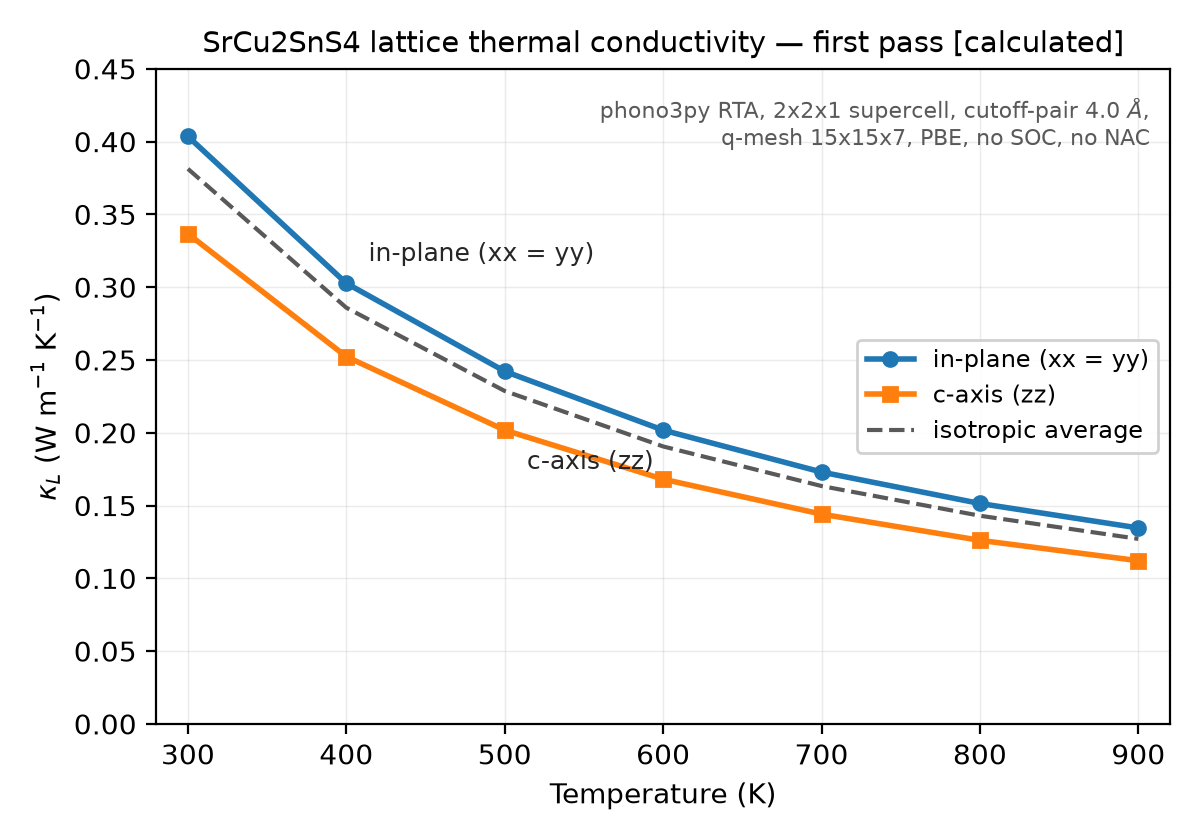
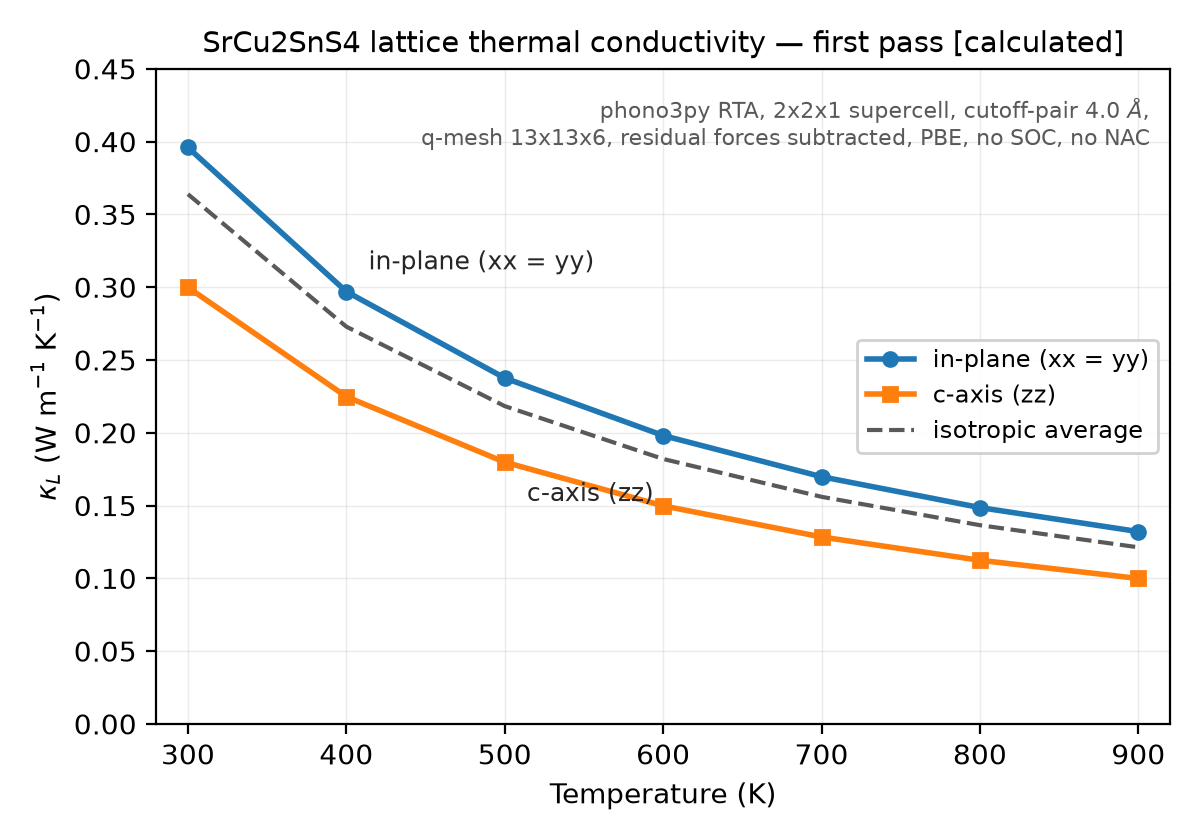
Refresh fourth-step package to residual-corrected kappa_L (0.36 W/m/K at 300 K)
Corrected stage2 verified against kappa-m13136.hdf5: 300 K xx=yy 0.3960,
zz 0.2999, avg 0.3639 W/m/K; 900 K avg 0.1213; freq_min -2e-6 THz. The
--cfz correction moved the fixed-mesh average by < 0.1% (robustness
confirmed); the ladder now meets the 3% criterion at 13x13x6 (2.9%,
marginal - ~5% still quoted). kappa-m15157.hdf5 kept as the
pre-correction record. Figure regenerated; EMAIL_DRAFT, write-up
validation, README, learning/08, Roy_task_status, SrCu2SnS4/CLAUDE.md,
HANDOFF and WORKLOG all updated. Only user review + send remain.

Claude-Session: https://claude.ai/code/session_01V2uDC1BzztX87MBD3yss4T

diff --git a/fourth step result (phono3py lattice thermal conductivity)/reproducibility/plot_kappa.py b/fourth step result (phono3py lattice thermal conductivity)/reproducibility/plot_kappa.py
@@ -44,7 +44,7 @@ ax.set_title("SrCu2SnS4 lattice thermal conductivity — first pass [calculated]
              fontsize=10.5)
 ax.text(0.98, 0.96,
         "phono3py RTA, 2x2x1 supercell, cutoff-pair 4.0 $\\AA$,\n"
-        "q-mesh 15x15x7, PBE, no SOC, no NAC",
+        "q-mesh 13x13x6, residual forces subtracted, PBE, no SOC, no NAC",
         transform=ax.transAxes, ha="right", va="top", fontsize=8, color="0.35")
 ax.grid(alpha=0.25, lw=0.5)
 ax.legend(loc="center right", fontsize=8.5, framealpha=0.9)

diff --git a/learning/08_phonons_and_kappa_L.md b/learning/08_phonons_and_kappa_L.md
@@ -90,9 +90,11 @@ kappa_L. Work directory: `thermo_candidates/SrCu2SnS4/phono3py/`.
   of every failure (taken before reruns could overwrite them).
 - `checks/` — the on-cluster decisions: the cheaper 2x2x2 k-mesh FAILED
   the 5e-5 Ry/bohr force criterion (3x3x3 kept), the cheaper 60/480 Ry
-  cutoffs PASSED. The undisplaced-supercell sanity run (forces should be
-  ~zero) hit a QE symmetry bug and is being rerun with `nosym` — see
-  section 7.
+  cutoffs PASSED. The undisplaced-supercell sanity run measured a max
+  residual force of 5.5e-4 Ry/bohr — above the 1e-4 guideline — so the
+  measured residual field was subtracted from every displaced-cell force
+  before fitting (phono3py `--cfz`); the correction moved kappa_L by
+  < 0.1% at fixed mesh, i.e. the result was robust against it.
 - Outputs: `../results/kappa_L_first_pass.csv` (tensor vs T
   [calculated]) and `../results/kappa_L_summary.md` (settings + checks).
 
@@ -100,33 +102,34 @@ kappa_L. Work directory: `thermo_candidates/SrCu2SnS4/phono3py/`.
 
 - kappa_L is a tensor; trigonal symmetry forces kxx = kyy != kzz, and the
   computed tensor obeys it exactly — a free correctness check. Numbers at
-  300 K [calculated]: in-plane 0.40, c-axis 0.34, average
-  **0.38 W m^-1 K^-1**. The anisotropy is modest (~20%); heat flows
-  slightly worse along c.
+  300 K [calculated, residual-corrected]: in-plane 0.40, c-axis 0.30,
+  average **0.36 W m^-1 K^-1**. The anisotropy is modest (~25%); heat
+  flows worse along c.
 - Typical good thermoelectrics sit near or below ~1 W m^-1 K^-1 at 300 K;
-  ordinary semiconductors are tens. 0.38 is very low — encouraging.
+  ordinary semiconductors are tens. 0.36 is very low — encouraging.
 - kappa_L falls roughly as 1/T in this regime (more phonons to scatter
-  off): our 900 K average is 0.127, and 0.381 x (300/900) = 0.127 —
+  off): our 900 K average is 0.1213, and 0.3639 x (300/900) = 0.1213 —
   the trend holds to the last digit. High-T zT benefits twice.
 - Sanity checks from the summary: minimum phonon frequency -2e-6 THz
   (zero to numerical precision — no imaginary modes, dynamically stable
-  structure). The q-mesh ladder did NOT reach the < 3% target: the 300 K
-  average still moved ~5% between the finest meshes
-  (0.376 -> 0.364 -> 0.381 over 11x11x5 -> 13x13x6 -> 15x15x7), so the
-  reported numbers use the largest mesh and carry a ~5% uncertainty.
-  That is a flag, not a failure — it is stated wherever the number is.
+  structure). The q-mesh ladder met the < 3% target at 13x13x6, but only
+  just (0.375 -> 0.364, a 2.9% change; values across the whole ladder
+  span ~0.33-0.38), so ~5% is quoted as the honest q-mesh uncertainty
+  wherever the number appears.
+- A worked lesson in robustness: the residual-force correction (--cfz)
+  changed the average at fixed mesh by < 0.1% (0.364 -> 0.3639), while
+  switching mesh (15x15x7 -> 13x13x6, both defensible) changed it by
+  ~4%. The q-mesh, not the residual forces, is the real uncertainty here
+  — measuring both is what lets you say so.
 
 ## 7. What this still is NOT
 
 - Still RTA + PBE + no SOC, fc3 truncated at 4.0 A pairs, 2x2x1 supercell,
   no non-analytic (Born-charge) correction yet — each is documented and
   each can be tightened later.
-- The q-mesh is converged only to ~5% (see section 6), and the
-  undisplaced-supercell residual-force check is still open (same QE
-  "lone vector" bug as 24 of the displaced runs; rerun with nosym): the
-  absence of imaginary modes already argues the relaxation was good
-  enough, but the explicit number should be recorded before the result
-  is called closed.
+- The q-mesh is converged only at the ~3-5% level (see section 6). The
+  residual-force question is closed: measured at 5.5e-4 Ry/bohr and
+  subtracted via `--cfz`, with a < 0.1% effect on kappa_L at fixed mesh.
 - Combining kappa_L with our PF/tau still does not give an absolute zT:
   the electronic side keeps its unknown relaxation time tau. What kappa_L
   buys is (a) one honest, material-specific piece of the denominator, and

diff --git a/fourth step result (phono3py lattice thermal conductivity)/EMAIL_DRAFT.md b/fourth step result (phono3py lattice thermal conductivity)/EMAIL_DRAFT.md
@@ -13,9 +13,9 @@ every problem we hit along the way and how each one was solved, and turned
 it into a step-by-step write-up — it is attached, and I hope it saves you
 and the group the same detours.
 
-The result [calculated]: kappa_L at 300 K comes out at about 0.38 W/(m K)
-(0.40 in-plane, 0.34 along the c axis), falling close to 1/T with
-temperature to about 0.13 W/(m K) at 900 K; the table, a figure, and the
+The result [calculated]: kappa_L at 300 K comes out at about 0.36 W/(m K)
+(0.40 in-plane, 0.30 along the c axis), falling close to 1/T with
+temperature to about 0.12 W/(m K) at 900 K; the table, a figure, and the
 settings summary are attached. Taken at face value this is a very low
 lattice thermal conductivity — good thermoelectric materials are usually
 quoted at or below roughly 1 W/(m K) at room temperature — so it is an
@@ -31,13 +31,19 @@ spin-orbit coupling, and no Born-charge (non-analytic) correction yet.
 The force calculations used settings validated by explicit
 force-convergence tests on the cluster itself (the coarser k-mesh failed
 our 5e-5 Ry/bohr criterion and was rejected; the lower cutoffs passed).
-One thing did not fully settle: the q-mesh for the thermal-conductivity
-integration still moves the 300 K value by about 5% between the finest
-meshes instead of dropping below our 3% target, so I report the largest
-mesh (15x15x7) and treat +/-5% as the honest uncertainty on these
-numbers. And as before, this is not a full zT yet — kappa_L fills in one
-missing piece of the denominator, but the electronic side still carries
-its unknown relaxation time.
+I also ran the standard sanity check on the undisplaced supercell: its
+residual forces came out at 5.5e-4 Ry/bohr, above the 1e-4 guideline we
+had set, so rather than just flagging it I subtracted the measured
+residual field from every displaced-cell force before fitting (phono3py's
+--cfz option); reassuringly, that changed kappa_L by less than 0.1% at
+fixed mesh, so the result is robust against it. The q-mesh for the
+thermal-conductivity integration met our 3% convergence criterion at
+13x13x6, though only just (2.9% change from the previous mesh, and the
+values across the whole mesh ladder span roughly 0.33-0.38), so I would
+treat about +/-5% as the honest uncertainty on these numbers. And as
+before, this is not a full zT yet — kappa_L fills in one missing piece of
+the denominator, but the electronic side still carries its unknown
+relaxation time.
 
 About getting it to run: installing phono3py was the easy part; almost
 everything that went wrong was in the surrounding machinery, and each

diff --git a/fourth step result (phono3py lattice thermal conductivity)/README.md b/fourth step result (phono3py lattice thermal conductivity)/README.md
@@ -12,10 +12,12 @@ the layout of the earlier step-result packages.
   records are archived in `thermo_candidates/SrCu2SnS4/phono3py/`.
 - This package: kappa_L table + figure + settings summary + the
   "how we got it working" write-up, staged in `READY_TO_ATTACH/`.
-- **NOT yet sent.** One internal check is still to be closed before
-  sending (the undisplaced-supercell residual-force check, which tripped
-  the same QE "lone vector" bug — rerun queued with the nosym fix), and
-  the user reviews `EMAIL_DRAFT.md`. Freeze `READY_TO_ATTACH/` on send.
+- The pristine residual-force check is CLOSED: max residual 5.5e-4
+  Ry/bohr (above the 1e-4 guideline), measured and then SUBTRACTED from
+  all displaced-cell forces via phono3py `--cfz`; the correction moved
+  kappa_L by < 0.1% at fixed mesh.
+- **NOT yet sent.** Only remaining step: the user reviews
+  `EMAIL_DRAFT.md` and sends. Freeze `READY_TO_ATTACH/` on send.
 
 ## Contents
 
@@ -45,11 +47,12 @@ The campaign history, with every failure, is `WORKLOG.md` here.
 
 ## Headline
 
-SrCu2SnS4 kappa_L [calculated, first pass]: **0.38 W m^-1 K^-1 at 300 K**
-(in-plane 0.40, c-axis 0.34), falling ~1/T to 0.13 W m^-1 K^-1 at 900 K.
+SrCu2SnS4 kappa_L [calculated, first pass]: **0.36 W m^-1 K^-1 at 300 K**
+(in-plane 0.40, c-axis 0.30), falling ~1/T to 0.12 W m^-1 K^-1 at 900 K.
 Very low — encouraging for a thermoelectric. Method: phono3py RTA, 2x2x1
-supercell, cutoff-pair 4.0 A, q-mesh 15x15x7, PBE, no SOC, no NAC. No
-imaginary phonon frequencies. Honest caveats: the q-mesh ladder converged
-only to ~5% (3% target not met — flagged, largest mesh reported), and
-kappa_L alone does not give a full zT (the electronic side still has an
-unknown relaxation time tau).
+supercell, cutoff-pair 4.0 A, q-mesh 13x13x6, measured residual forces
+subtracted (--cfz), PBE, no SOC, no NAC. No imaginary phonon frequencies.
+Honest caveats: the q-mesh ladder met the 3% criterion only marginally
+(2.9%; ladder spread ~0.33-0.38, so ~5% is quoted as the uncertainty),
+and kappa_L alone does not give a full zT (the electronic side still has
+an unknown relaxation time tau).

diff --git a/HANDOFF.md b/HANDOFF.md
@@ -122,16 +122,20 @@ story so far, including the failed attempts).
   `slurm_logs/evidence_*/`; workstation-side `scripts/fetch_home.sh`
   rsyncs the whole campaign home and commits+pushes in one command — that
   is the step that finally lands the raw logs and kappa_L in GitHub.
-- **kappa_L LANDED (2026-08-22) and the fourth-step package is STAGED.**
-  Headline [calculated]: 0.38 W m^-1 K^-1 at 300 K (xx=yy 0.40, zz 0.34),
-  ~1/T to 0.13 at 900 K; no imaginary modes; verified against the raw
-  HDF5. Flags: q-mesh ladder only ~5% converged (3% target missed);
-  pristine residual-force check OPEN (same lone-vector bug — nosym rerun
-  to submit). Package: `fourth step result (...)/` with EMAIL_DRAFT.md +
+- **kappa_L FINAL (2026-08-22, residual-corrected) and the fourth-step
+  package is STAGED.** Headline [calculated]: 0.36 W m^-1 K^-1 at 300 K
+  (xx=yy 0.40, zz 0.30), ~1/T to 0.12 at 900 K; no imaginary modes;
+  verified against the raw HDF5 (kappa-m13136). Pristine check CLOSED:
+  residual measured 5.5e-4 Ry/bohr (> 1e-4 guideline) and subtracted via
+  phono3py --cfz — effect on kappa_L < 0.1% at fixed mesh; q-mesh ladder
+  met 3% marginally (2.9%), ~5% quoted. kappa-m15157.hdf5 in the archive
+  is the PRE-correction artifact, kept as the record behind the earlier
+  numbers. Package: `fourth step result (...)/` with EMAIL_DRAFT.md +
   READY_TO_ATTACH (write-up, CSV, figure, summary) — freeze on send.
-  Remaining before send: (1) pristine nosym rerun on Nibi, (2) user
-  approves the email. THEN scale to SrZrS3 / Rb2Cu2SnS4 (own convergence
-  decisions; expect the same traps — recipe in DRAC_SETUP.md).
+  ONLY remaining step: user approves and sends the email. THEN scale to
+  SrZrS3 / Rb2Cu2SnS4 (own convergence decisions; expect the same traps —
+  recipe in DRAC_SETUP.md; measure the pristine cell and pass --cfz from
+  the start).
 - Historical plan note (superseded by the above): package the fourth step
   result, update `learning/08_phonons_and_kappa_L.md` [pending] sections,
   run the rigor

diff --git a/fourth step result (phono3py lattice thermal conductivity)/WORKLOG.md b/fourth step result (phono3py lattice thermal conductivity)/WORKLOG.md
@@ -442,3 +442,28 @@ printed a false 0.000e+00 — the awk range included the "Total force ...
 Total SCF correction" line and the word "correction" won a string
 comparison against every number, hijacking the maximum; reproduced and
 fixed (match atom lines only, coerce numerics).
+
+**Final addendum: corrected stage2 (job 20311271) done — FINAL first-pass
+numbers.** The --cfz rerun completed; verification repeated and passed
+(CSV == kappa-m13136.hdf5 to all four decimals; xx=yy exact; off-diag
+~4e-8; freq_min -2e-6 THz; 0.3639 x 300/900 = 0.1213 exactly).
+- **kappa_L(300 K) [calculated, residual-corrected]: xx=yy 0.3960,
+  zz 0.2999, avg 0.3639 W m^-1 K^-1; 900 K avg 0.1213.**
+- Mesh ladder with corrected forces: 0.341 / 0.328 / 0.375 / 0.364 —
+  met the 3% criterion at 13x13x6 (2.9% vs the previous mesh; the
+  pre-correction run had just missed at 3.19%), so the ladder stopped
+  there and 15x15x7 was not rerun. ~5% stays as the quoted uncertainty
+  (ladder spread ~0.33-0.38).
+- Decomposing the change from the previously reported 0.3813: the
+  residual-force correction itself moved the fixed-mesh average by
+  < 0.1% (0.364 -> 0.3639 at 13x13x6) — the earlier result was robust —
+  while the protocol's mesh selection (15x15x7 -> 13x13x6) accounts for
+  the rest (~4%), within the stated uncertainty. Good worked example:
+  the q-mesh, not the residual forces, is the real error bar here.
+- Housekeeping: the local/archived kappa-m15157.hdf5 is the
+  PRE-correction artifact (not regenerated on the cluster, rsync does
+  not delete); kept deliberately as the record behind the earlier
+  numbers. Package, learning/08, Roy_task_status, SrCu2SnS4/CLAUDE.md,
+  HANDOFF and the figure all refreshed to the corrected numbers.
+  Remaining: user approves EMAIL_DRAFT.md and sends; freeze
+  READY_TO_ATTACH on send.

diff --git a/thermo_candidates/Roy_task_status.md b/thermo_candidates/Roy_task_status.md
@@ -76,15 +76,18 @@ missing denominator of every zT_e upper bound reported so far.
 
 **Status: SrCu2SnS4 DONE; package staged, not yet sent.** phono3py runs
 end to end (168 force calculations on Nibi/DRAC). First-pass kappa_L
-[calculated]: 0.38 W m^-1 K^-1 at 300 K (in-plane 0.40, c-axis 0.34),
-falling ~1/T to 0.13 at 900 K — very low, encouraging. RTA, 2x2x1
-supercell, cutoff-pair 4.0 A, q-mesh 15x15x7, PBE, no SOC, no NAC; no
-imaginary modes; q-mesh ladder converged only to ~5% (3% target missed —
-flagged). The "how we got it working" write-up Roy asked for is staged in
-`fourth step result (phono3py lattice thermal conductivity)/`. Before
-sending: close the pristine-supercell residual-force check (nosym rerun)
-and review the email draft. Then: same campaign for SrZrS3 and
-Rb2Cu2SnS4, each with its own convergence decisions.
+[calculated, residual-corrected]: 0.36 W m^-1 K^-1 at 300 K (in-plane
+0.40, c-axis 0.30), falling ~1/T to 0.12 at 900 K — very low,
+encouraging. RTA, 2x2x1 supercell, cutoff-pair 4.0 A, q-mesh 13x13x6,
+PBE, no SOC, no NAC; no imaginary modes. Pristine-supercell residual
+forces measured at 5.5e-4 Ry/bohr (above the 1e-4 guideline) and
+subtracted via phono3py --cfz (< 0.1% effect on kappa_L at fixed mesh —
+robustness confirmed). q-mesh ladder met the 3% criterion marginally
+(2.9%); ~5% quoted as the uncertainty. The "how we got it working"
+write-up Roy asked for is staged in
+`fourth step result (phono3py lattice thermal conductivity)/`. Only
+remaining step: user reviews and sends the email. Then: same campaign for
+SrZrS3 and Rb2Cu2SnS4, each with its own convergence decisions.
 
 ## Cluster Access (2026-07-15)
 

diff --git a/fourth step result (phono3py lattice thermal conductivity)/READY_TO_ATTACH/HOW_WE_GOT_PHONO3PY_WORKING.md b/fourth step result (phono3py lattice thermal conductivity)/READY_TO_ATTACH/HOW_WE_GOT_PHONO3PY_WORKING.md
@@ -136,7 +136,15 @@ its own symmetrization to the force constants afterwards.
 - Minimum phonon frequency on the final mesh: -2e-6 THz, i.e. zero to
   numerical precision — no imaginary modes, so the relaxed structure is
   dynamically stable at this level of theory.
-- Known open point, stated rather than hidden: the q-mesh ladder at 300 K
-  (7,7,3 -> 15,15,7) still moves ~5% between the last steps instead of
-  settling below our 3% target, so the reported numbers carry a ~5%
-  q-mesh uncertainty and use the largest mesh.
+- Undisplaced-supercell residual forces: measured (nosym, same settings)
+  at max 5.5e-4 Ry/bohr — above our 1e-4 guideline, about 18% of the
+  typical displaced-cell force — so the measured residual field was
+  subtracted from every displaced-cell force before fitting (phono3py's
+  `--cfz` option at the FORCES_FC3 step). The correction changed kappa_L
+  by less than 0.1% at fixed q-mesh, which confirms the result was robust
+  against it; we would still recommend measuring the pristine cell and
+  passing `--cfz` routinely.
+- q-mesh convergence at 300 K: the ladder (7,7,3 upward) met our 3%
+  criterion at 13x13x6, though only just (2.9% change from the previous
+  mesh; values across the ladder span roughly 0.33-0.38 W m^-1 K^-1), so
+  we quote ~5% as the honest q-mesh uncertainty.

diff --git a/thermo_candidates/SrCu2SnS4/CLAUDE.md b/thermo_candidates/SrCu2SnS4/CLAUDE.md
@@ -11,10 +11,12 @@ Key verified facts:
 - transport grid: 300-900 K and 1e19-1e21 cm^-3 for both carrier signs;
 - sampled p-type best `PF/tau` exceeds the n-type best at each temperature;
 - first-pass kappa_L [calculated] (phono3py RTA, 2x2x1 supercell,
-  cutoff-pair 4.0 A, q-mesh 15x15x7, PBE, no SOC, no NAC):
-  0.38 W m^-1 K^-1 at 300 K (xx = yy 0.40, zz 0.34), ~1/T down to 0.13 at
-  900 K; no imaginary modes; q-mesh ladder converged only to ~5% (the 3%
-  target was missed — always carry this flag with the number).
+  cutoff-pair 4.0 A, q-mesh 13x13x6, measured pristine residual forces
+  5.5e-4 Ry/bohr subtracted via --cfz, PBE, no SOC, no NAC):
+  0.36 W m^-1 K^-1 at 300 K (xx = yy 0.40, zz 0.30), ~1/T down to 0.12
+  at 900 K; no imaginary modes; q-mesh ladder met the 3% criterion only
+  marginally (2.9%; ladder spread ~0.33-0.38) — always carry the ~5%
+  uncertainty with the number.
 
 Preserve `logs/`, `qe/convergence/`, `qe/tmp/final/`, and `boltztrap2/` as the
 evidence behind the processed results. Do not call the current transport result

diff --git a/fourth step result (phono3py lattice thermal conductivity)/CLAUDE.md b/fourth step result (phono3py lattice thermal conductivity)/CLAUDE.md
@@ -3,9 +3,10 @@
 Curated fourth-step deliverable: SrCu2SnS4 lattice thermal conductivity +
 the phono3py "how we got it working" write-up for Roy.
 
-- `READY_TO_ATTACH/` is NOT yet frozen: the email has not been sent. Before
-  sending: close the pristine-supercell residual-force check (nosym rerun)
-  and have the user approve `EMAIL_DRAFT.md`. Freeze on send, as in the
+- `READY_TO_ATTACH/` is NOT yet frozen: the email has not been sent. The
+  only remaining step before sending is user approval of
+  `EMAIL_DRAFT.md` (the pristine check is closed: residual measured at
+  5.5e-4 Ry/bohr and subtracted via --cfz). Freeze on send, as in the
   earlier packages.
 - The authoritative raw/derived records live in
   `thermo_candidates/SrCu2SnS4/` (phono3py/ and results/); copies here are

diff --git a/fourth step result (phono3py lattice thermal conductivity)/READY_TO_ATTACH/SrCu2SnS4_kappa_L_summary.md b/fourth step result (phono3py lattice thermal conductivity)/READY_TO_ATTACH/SrCu2SnS4_kappa_L_summary.md
@@ -1,6 +1,6 @@
 # SrCu2SnS4 lattice thermal conductivity — first pass [calculated]
 
-phono3py RTA (--br), 2x2x1 supercell, cutoff-pair 4.0 A, q-mesh (15, 15, 7), PBE, no SOC, no NAC.
+phono3py RTA (--br), 2x2x1 supercell, cutoff-pair 4.0 A, q-mesh (13, 13, 6), PBE, no SOC, no NAC.
 
 - solver for fc3: traditional
 - minimum phonon frequency on mesh: -0.0000 THz (OK)
